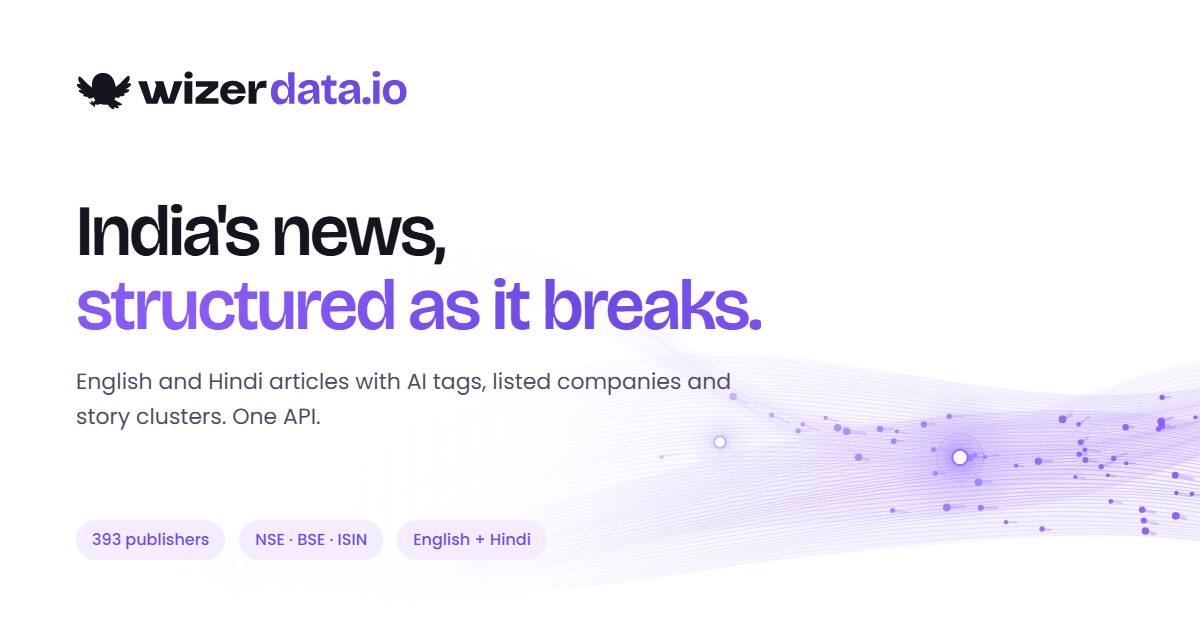
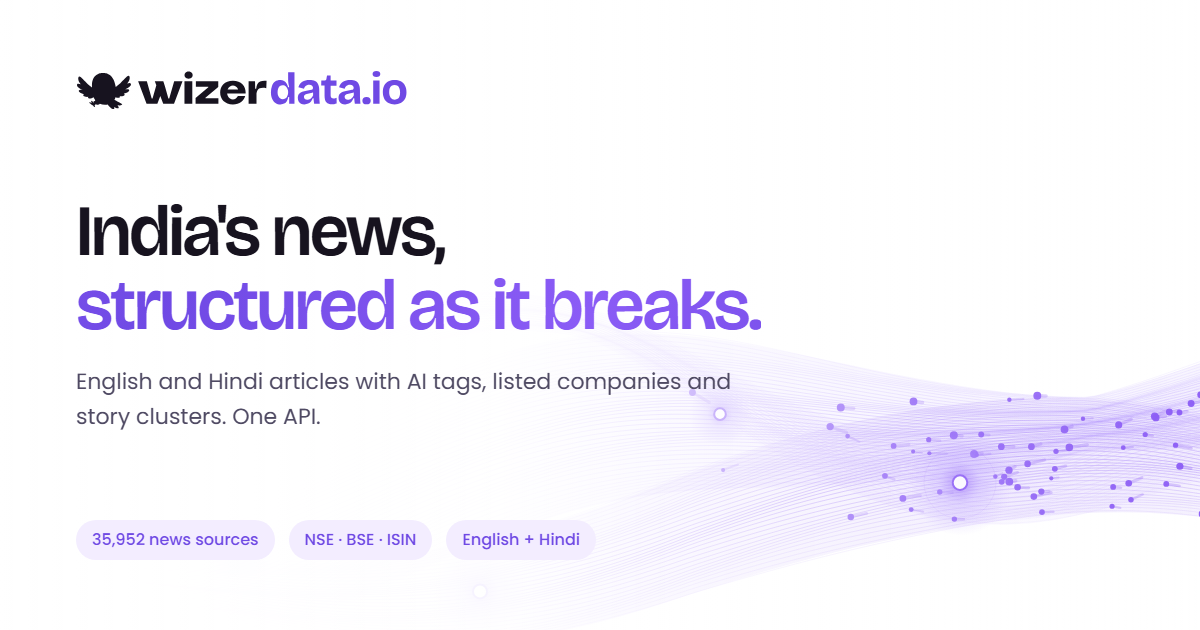
Deploy 2026-11-18 16:28

diff --git a/index.html b/index.html
@@ -53,7 +53,7 @@
     <div class="reveal">
       <span class="pill"><span class="live" aria-hidden="true"></span>India news, clustered every minute</span>
       <h1 id="hero-h"><span class="ln">Every Indian news story,</span> <span class="ln grad-text">structured as it breaks.</span></h1>
-      <p class="lede">One API for news from 393 Indian publishers in English and Hindi. Each article arrives categorised, scored, linked to listed companies and grouped into its story, so you see what is spreading, not just what was published.</p>
+      <p class="lede">One API for news from 35,952 Indian news sources in English and Hindi. Each article arrives categorised, scored, linked to listed companies and grouped into its story, so you see what is spreading, not just what was published.</p>
       <div class="ctas">
         <a href="contact.html?intent=key" class="btn btn-primary">Get API access <span class="arr">→</span></a>
         <a href="sample.html" class="btn btn-ghost">Explore 170 free records</a>
@@ -90,7 +90,7 @@
       <div class="metric"><span class="v">96.2<small>%</small></span><span class="l">of shared articles reached WIZER before GDELT</span><span class="src">2,442 articles, 8 Oct 2026</span></div>
       <div class="metric"><span class="v">0.868</span><span class="l">story clustering accuracy (B-cubed F1), English and Hindi</span><span class="src">held-out test stories, 16 Oct 2026</span></div>
       <div class="metric"><span class="v">89.4<small>%</small></span><span class="l">category accuracy after the article body arrives</span><span class="src">1,559 double-labelled items</span></div>
-      <div class="metric"><span class="v">35,952</span><span class="l">sitemaps and feeds polled, the busiest every 2 minutes</span><span class="src">393 publishers, 18 Nov 2026</span></div>
+      <div class="metric"><span class="v">35,952</span><span class="l">Indian news sources, the busiest polled every 2 minutes</span><span class="src">sitemaps and feeds, 18 Nov 2026</span></div>
     </div>
     <p class="muted" style="margin-top:14px">How each number is measured, with its limits: <a class="link" href="methodology.html">methodology</a>.</p>
   </div>

diff --git a/methodology.html b/methodology.html
@@ -96,7 +96,7 @@
       <div class="card-flat" style="padding:22px"><span class="n mono" style="color:var(--accent-ink);font-size:12.5px">03</span><h3 style="margin:8px 0 6px">Tag</h3><p class="small" style="color:var(--ink-2)">Language, category, tone, entities, companies and places, by models fine-tuned on Indian English and Hindi.</p></div>
       <div class="card-flat" style="padding:22px"><span class="n mono" style="color:var(--accent-ink);font-size:12.5px">04</span><h3 style="margin:8px 0 6px">Cluster</h3><p class="small" style="color:var(--ink-2)">Articles join stories in one English-Hindi embedding space. Velocity is recomputed every minute.</p></div>
     </div>
-    <p class="muted" style="margin-top:20px">Publisher map: 393 active publishers chosen by measured article-level recall from a registry of 14,723, polled through 35,952 sitemaps and feeds. Official sources (PIB, SEBI, NSE, BSE) are polled every 5 minutes.</p>
+    <p class="muted" style="margin-top:20px">Source map: 35,952 news sources (sitemaps and feeds) across 393 active publishers, chosen by measured article-level recall from a registry of 14,723. Official sources (PIB, SEBI, NSE, BSE) are polled every 5 minutes.</p>
   </div>
 </section>
 
